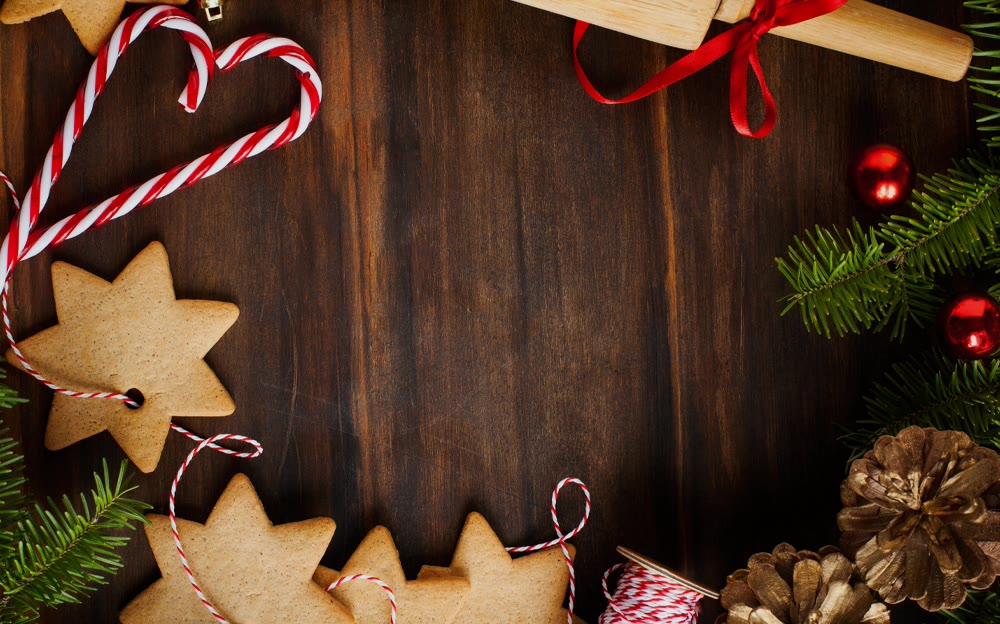
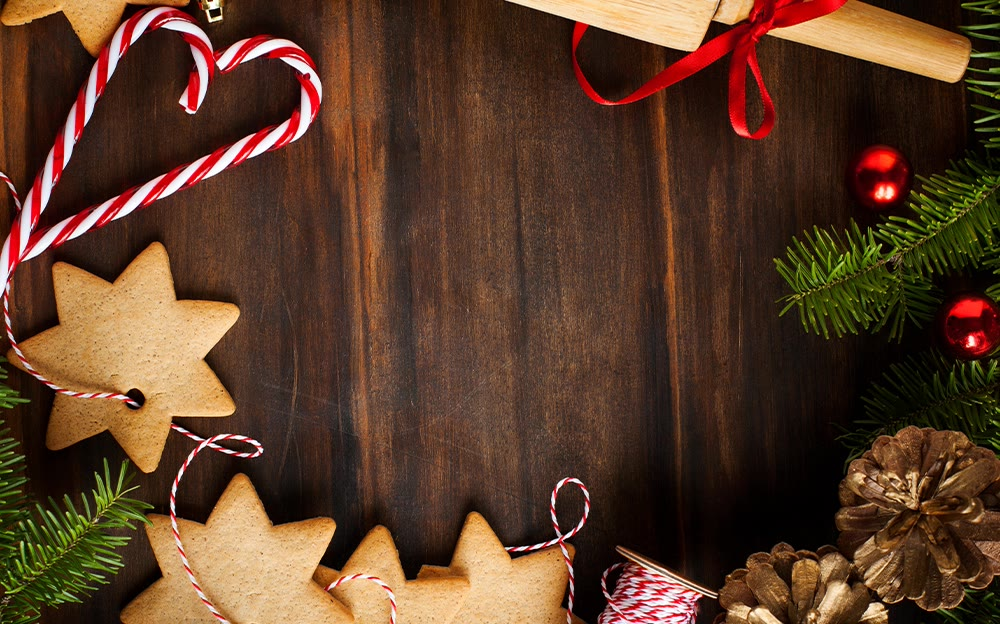
New covers, Menu Photoshoot gallery, SFT case study and images
- Covers: 3 Apps (IHOP AR, Ben & Jerry's AR, Facebook Canvas) and Work
  (AHA, Bausch + Lomb, IHOP Contest, Ecommerce, Menu Photoshoot); replaced
  Double Dipped and Holiday. PNG -> JPEG.
- Menu Photoshoot: 21 dishes in menu order with labels (WebP, EXIF stripped)
- Cheesecake Stuffed French Toast: new copy from Pete's markdown; sweater,
  homepage, landing page, display ad and email images
- Tile logos: 8 trimmed logos with equal-visual-weight sizing, switched
  off for now (site.tileLogos = false)
- New per-image options: actualSize (email at 600px)
- Privacy check covers WebP metadata

diff --git a/src/styles/global.css b/src/styles/global.css
@@ -134,13 +134,46 @@ html:has(.has-sticky-header) { scroll-padding-top: calc(var(--header-height-comp
 .tile-grid { display: grid; grid-template-columns: repeat(3, 1fr); }
 .tile {
   position: relative; display: grid; place-items: center; aspect-ratio: 16 / 10; overflow: hidden;
+  container-type: inline-size; /* lets logos size relative to the tile (cqw units) */
   background: #555; color: var(--color-on-image); text-decoration: none; text-align: center;
 }
 .tile__bg { position: absolute; inset: 0; width: 100%; height: 100%; object-fit: cover; }
 .tile::before { content: ''; position: absolute; inset: 0; z-index: 1; background: var(--color-overlay); transition: background 0.3s; }
 .tile__face, .tile__hover { position: relative; z-index: 2; display: grid; gap: var(--space-1); padding: var(--space-2); transition: opacity 0.3s; }
 .tile__hover { position: absolute; inset: 0; place-content: center; opacity: 0; }
-.tile__logo { width: auto; max-width: 60%; max-height: 5rem; margin: 0 auto; object-fit: contain; }
+/* Client logos: width set per logo for equal visual weight (see Tile.astro), in % of tile width (cqw) */
+.tile__logo { height: auto; max-height: var(--tile-logo-max-h); margin: 0 auto; object-fit: contain; }
+.tile__logo[data-size="10"] { width: 10cqw; }
+.tile__logo[data-size="12"] { width: 12cqw; }
+.tile__logo[data-size="14"] { width: 14cqw; }
+.tile__logo[data-size="16"] { width: 16cqw; }
+.tile__logo[data-size="18"] { width: 18cqw; }
+.tile__logo[data-size="20"] { width: 20cqw; }
+.tile__logo[data-size="22"] { width: 22cqw; }
+.tile__logo[data-size="24"] { width: 24cqw; }
+.tile__logo[data-size="26"] { width: 26cqw; }
+.tile__logo[data-size="28"] { width: 28cqw; }
+.tile__logo[data-size="30"] { width: 30cqw; }
+.tile__logo[data-size="32"] { width: 32cqw; }
+.tile__logo[data-size="34"] { width: 34cqw; }
+.tile__logo[data-size="36"] { width: 36cqw; }
+.tile__logo[data-size="38"] { width: 38cqw; }
+.tile__logo[data-size="40"] { width: 40cqw; }
+.tile__logo[data-size="42"] { width: 42cqw; }
+.tile__logo[data-size="44"] { width: 44cqw; }
+.tile__logo[data-size="46"] { width: 46cqw; }
+.tile__logo[data-size="48"] { width: 48cqw; }
+.tile__logo[data-size="50"] { width: 50cqw; }
+.tile__logo[data-size="52"] { width: 52cqw; }
+.tile__logo[data-size="54"] { width: 54cqw; }
+.tile__logo[data-size="56"] { width: 56cqw; }
+.tile__logo[data-size="58"] { width: 58cqw; }
+.tile__logo[data-size="60"] { width: 60cqw; }
+.tile__logo[data-size="62"] { width: 62cqw; }
+.tile__logo[data-size="64"] { width: 64cqw; }
+.tile__logo[data-size="66"] { width: 66cqw; }
+.tile__logo[data-size="68"] { width: 68cqw; }
+.tile__logo[data-size="70"] { width: 70cqw; }
 .tile__label { font: 400 clamp(1.25rem, 2.2vw, 1.75rem)/1.1 var(--font-display); }
 .tile__subtitle { font: 0.7rem var(--font-display); text-transform: uppercase; letter-spacing: var(--tracking-xwide); }
 .tile__title { font: 400 1.25rem/1.2 var(--font-ui); }
@@ -247,6 +280,9 @@ html:has(.has-sticky-header) { scroll-padding-top: calc(var(--header-height-comp
 .prose-page__portrait { float: right; width: 220px; height: auto; margin: 0 0 var(--space-3) var(--space-4); }
 
 .media-stack img { width: 100%; height: auto; }
+/* actualSize: the image keeps its real width (never wider than the column), left-aligned under its label */
+.media-item--actual img { width: auto; max-width: 100%; }
+.media-item--actual .zoomable { display: inline-block; width: auto; max-width: 100%; }
 
 /* Page-load reveal: the main text of each page fades up, one line after another.
    Only the animation hides the text, so with animations off everything is simply visible. */

diff --git a/src/styles/tokens.css b/src/styles/tokens.css
@@ -48,6 +48,7 @@
   --tile-rise: 0.75rem;      /* how far the client name/logo rises inside its tile */
   --tile-duration: 0.8s;     /* name/logo fade; the photo takes 1.4x this */
   --tile-zoom: 1.12;         /* tile photo starts slightly zoomed and settles to 100% */
+  --tile-logo-max-h: 26cqw;  /* tallest a tile logo can be (26% of the tile's width); sizes are set in Tile.astro */
   --tile-hover-zoom: 1.06;   /* tile photo grows slightly on hover; the tile frame stays the same */   /* equal gap between role, name and tagline on the home page */
 }
 /* Tablet and phone: slimmer header */

diff --git a/src/data/site.ts b/src/data/site.ts
@@ -24,6 +24,9 @@ export const site = {
   // false while previewing on github.io so search engines don't index a duplicate of petemag.com.
   // Flip to true at domain cutover (docs/seo.md).
   indexable: false,
+  // Client logos on tiles (logo.png in each project folder). Off = client names in text.
+  // The logo files and their balanced sizing (Tile.astro) are kept, ready to switch back on.
+  tileLogos: false,
   // Which home page design is live (src/components/home/). 'split' = the original Squarespace layout.
   home: 'split' as const,
   nav: [

diff --git a/src/content.config.ts b/src/content.config.ts
@@ -23,6 +23,7 @@ const media = z.object({
   alt: z.string().min(1),
   caption: z.string().optional(), // short label shown above the item; defaults to alt
   zoom: z.boolean().default(false), // true = click to open full size (good for long screenshots)
+  actualSize: z.boolean().default(false), // true = show at the image's real width instead of filling the column (e.g. emails)
   loop: z.boolean().default(false), // videos: play silently on repeat, like a GIF (not for reduced-motion visitors)
 });
 

diff --git a/src/content/work/ihop-sft-campaign.md b/src/content/work/ihop-sft-campaign.md
@@ -13,22 +13,72 @@ media:
     vimeo: "246280134"
     alt: "Holiday gift-wrap unwrapping animation for Cheesecake Stuffed French Toast"
     caption: "Holiday unwrap animation"
-  - src: images/work/ihop-sft-campaign/02.jpg
-    alt: "Branded ugly sweater, front and back"
-  - src: images/work/ihop-sft-campaign/03.jpg
-    alt: "IHOP homepage with SFT modules"
-  - src: images/work/ihop-sft-campaign/04.jpg
-    alt: "Landing page with the three flavors"
-  - src: images/work/ihop-sft-campaign/05.jpg
-    alt: "Six slides from a Cheesecake Stuffed French Toast display ad"
+  - src: images/work/ihop-sft-campaign/02.png
+    alt: "IHOP holiday ugly sweater, front and back: a snow globe with an IHOP restaurant, falling pancakes and a pancake stack"
+    caption: "Holiday ugly sweater giveaway"
+  - src: images/work/ihop-sft-campaign/03.webp
+    alt: "Full IHOP homepage takeover featuring Cheesecake Stuffed French Toast, IHOP 'N Go and holiday menu modules"
+    caption: "Homepage takeover"
+    zoom: true
+  - src: images/work/ihop-sft-campaign/04.webp
+    alt: "Full Cheesecake Stuffed French Toast landing page with the three flavors and holiday offers"
+    caption: "Landing page"
+    zoom: true
+  - src: images/work/ihop-sft-campaign/05.webp
+    alt: "Six slides from a Cheesecake Stuffed French Toast display ad: \"Come in today and unwrap the unexpected\", then each flavor"
     caption: "Display ad slides"
-  - src: images/work/ihop-sft-campaign/06.jpg
-    alt: "Email design"
+  - src: images/work/ihop-sft-campaign/06.webp
+    alt: "Promotional email: \"Ask for Cheesecake Stuffed French Toast\", with the three flavors and order buttons"
+    caption: "Email"
+    actualSize: true
+seoDescription: "Multi-channel campaign for IHOP's Stuffed French Toast LTO: web redesign, in-restaurant Snapchat geofilters, Waze ads and social giveaways to drive foot traffic."
+keywords: ["Campaign Strategy", "Digital Marketing", "Social Media Activation", "Geofenced Engagement", "Rich Media Advertising"]
 slugVerified: false
 ---
 
-<!-- TODO: paraphrase from the site audit. Replace with the original copy (or rewrite) before launch. -->
+## IHOP Stuffed French Toast Campaign
 
-**Role:** Creative Lead
+**Role:** Creative Lead<br>
+**Initiative:** Stuffed French Toast (SFT) Limited-Time Offer (LTO) Campaign<br>
+**Core Objective:** Drive Restaurant Foot Traffic, Boost Appetite Appeal, & Execute Multi-Channel Digital Strategy
 
-A holiday limited-time campaign for Cheesecake Stuffed French Toast, supported across digital and social with a homepage takeover, landing pages, social, email and branded holiday items.
+## Executive Summary
+
+For the holiday season, IHOP launched a new limited-time offer (LTO) product line: **Stuffed French Toast (SFT)**. The strategic objective was to drive foot traffic into IHOP restaurants by pairing an accessible price point with intense appetite appeal centered on the uniqueness of the product and its premium ingredients.
+
+Through an integrated digital campaign built around the concept of *"Unwrapping the Unexpected,"* IHOP combined high-impact rich media, location-gated social engagement, targeted email marketing, and holiday novelty to capture consumer interest and drive physical store visits.
+
+## Technical & Professional Scope
+
+| Categorization | Details & Competencies |
+| --- | --- |
+| **Role & Expertise** | Campaign Creative Direction, Digital Strategy, Experience Design, Social Engagement |
+| **Channels & Touchpoints** | Web (Homepage/Landing Page), Social Media, Email, Rich Media, Location-Based Mobile Ads |
+| **Core Delivery Lifecycle** | Creative Strategy → Web Experience Redesign → Asset Production → Multi-Channel Rollout |
+| **Specialized Tactics** | In-Restaurant Geofencing (Snapchat), Navigation Ads (Waze), Viral Social Merchandising |
+
+## Strategic Responsibilities & Execution
+
+### 1. Web Ecosystem & Digital Storytelling ("Unwrapping the Unexpected")
+
+- **Homepage & Landing Page Redesign:** Overhauled IHOP's primary digital touchpoints under the holiday theme *"Unwrapping the Unexpected."* Focused layout architecture on high-res product visual hierarchy and ingredient highlights.
+- **Email Marketing Campaigns:** Designed targeted promotional email campaigns highlighting the LTO price point and appetizing imagery directly to IHOP's subscriber database.
+
+### 2. Location-Gated & Social Engagement Tactics
+
+- **In-Restaurant Snapchat Geofilters:** Designed custom Snapchat filters promoting both the Stuffed French Toast LTO and IHOP's core equity offerings. The filters were geofenced so they could **only be unlocked inside an IHOP restaurant**, creating a direct digital incentive for store visits.
+- **Holiday Ugly Sweater Giveaway:** Executed the second annual custom IHOP holiday ugly sweater social giveaway to drive organic buzz, brand affinity, and social engagement.
+- **Social Ad Formats:** Produced high-performing Instagram Snap Ads and lightweight Twitter GIFs tailored for fast-scrolling appetite appeal.
+
+### 3. Rich Media & Drive-to-Store Partnerships
+
+- **High-Impact Publisher Ads:** Deployed interactive rich media banner placements across high-traffic platforms, including **CBS Sports**.
+- **Navigation-Based Targeting:** Partnered with **Waze** to display contextual, location-aware ads targeting drivers near IHOP locations during prime meal times.
+
+## Campaign Architecture
+
+The holiday campaign, *"Unwrapping the Unexpected,"* ran across three pillars:
+
+- **Digital Touchpoints:** Homepage Redesign · Dedicated Landing Page · Promotional Email Series
+- **Social Engagement:** Holiday Ugly Sweater Social Giveaway · Twitter GIFs · Instagram Snap Ads
+- **High-Impact Media & Location:** In-Restaurant Snapchat Location Filters · Waze Location Ads · CBS Sports Rich Media

diff --git a/src/content/work/ihop-menu-photoshoot.md b/src/content/work/ihop-menu-photoshoot.md
@@ -9,34 +9,69 @@ tile:
 role: "Creative Lead"
 order: 6
 media:
-  - src: images/work/ihop-menu-photoshoot/01.jpg
-    alt: "Menu photo: pancakes"
-  - src: images/work/ihop-menu-photoshoot/02.jpg
-    alt: "Menu photo: burger"
-  - src: images/work/ihop-menu-photoshoot/03.jpg
-    alt: "Menu photo: stuffed French toast"
-  - src: images/work/ihop-menu-photoshoot/04.jpg
-    alt: "Menu photo: club sandwich"
-  - src: images/work/ihop-menu-photoshoot/05.jpg
-    alt: "Menu photo: omelette"
-  - src: images/work/ihop-menu-photoshoot/06.jpg
-    alt: "Menu photo: crepes"
-  - src: images/work/ihop-menu-photoshoot/07.jpg
-    alt: "Menu photo: waffles"
-  - src: images/work/ihop-menu-photoshoot/08.jpg
-    alt: "Menu photo: skillet breakfast"
-  - src: images/work/ihop-menu-photoshoot/09.jpg
-    alt: "Menu photo: soup"
-  - src: images/work/ihop-menu-photoshoot/10.jpg
-    alt: "Menu photo: appetizers"
-  - src: images/work/ihop-menu-photoshoot/11.jpg
-    alt: "Menu photo: wrap"
-  - src: images/work/ihop-menu-photoshoot/12.jpg
-    alt: "Menu photo: salad"
-  - src: images/work/ihop-menu-photoshoot/13.jpg
-    alt: "Menu photo: turkey dinner"
-  - src: images/work/ihop-menu-photoshoot/14.jpg
-    alt: "Menu photo: sundae"
+  - src: images/work/ihop-menu-photoshoot/01.webp
+    alt: "Stack of IHOP original buttermilk pancakes with whipped butter and syrup"
+    caption: "Original Buttermilk Pancakes"
+  - src: images/work/ihop-menu-photoshoot/02.webp
+    alt: "Blueberry pancakes topped with blueberry compote and whipped cream"
+    caption: "Blueberry Pancakes"
+  - src: images/work/ihop-menu-photoshoot/03.webp
+    alt: "Rainbow-sprinkle cupcake pancakes with icing and whipped cream"
+    caption: "Cupcake Pancakes"
+  - src: images/work/ihop-menu-photoshoot/04.webp
+    alt: "Strawberry stuffed French toast with whipped cream"
+    caption: "Stuffed French Toast"
+  - src: images/work/ihop-menu-photoshoot/05.webp
+    alt: "French toast topped with sliced bananas and whipped cream"
+    caption: "Banana French Toast"
+  - src: images/work/ihop-menu-photoshoot/06.webp
+    alt: "Golden Belgian waffle with whipped butter"
+    caption: "Belgian Waffle"
+  - src: images/work/ihop-menu-photoshoot/07.webp
+    alt: "Chocolate-hazelnut crepes topped with sliced bananas and whipped cream"
+    caption: "Nutella Crepes"
+  - src: images/work/ihop-menu-photoshoot/08.webp
+    alt: "Crepes filled with cream and topped with peaches and whipped cream"
+    caption: "Peach Crepes"
+  - src: images/work/ihop-menu-photoshoot/09.webp
+    alt: "Vegetable omelette with broccoli, mushrooms, tomatoes and cheese, with fresh fruit"
+    caption: "Veggie Omelette"
+  - src: images/work/ihop-menu-photoshoot/10.webp
+    alt: "Steak omelette with mushrooms, peppers and cheese, with pancakes"
+    caption: "Steak Omelette"
+  - src: images/work/ihop-menu-photoshoot/11.webp
+    alt: "Steak tips with mushrooms, hash browns, eggs and a side of pancakes"
+    caption: "Steak Tips Combo"
+  - src: images/work/ihop-menu-photoshoot/12.webp
+    alt: "Bacon cheeseburger with lettuce, tomato and onion, served with fries"
+    caption: "Bacon Cheeseburger"
+  - src: images/work/ihop-menu-photoshoot/13.webp
+    alt: "Triple-decker BLT sandwich with a side of fresh fruit"
+    caption: "BLT"
+  - src: images/work/ihop-menu-photoshoot/14.webp
+    alt: "Turkey and vegetable wrap with fries"
+    caption: "Turkey Wrap"
+  - src: images/work/ihop-menu-photoshoot/15.webp
+    alt: "Grilled chicken salad with avocado, tomatoes, red onion and citrus"
+    caption: "Chicken Salad"
+  - src: images/work/ihop-menu-photoshoot/16.webp
+    alt: "Bowl of chicken noodle soup with carrots and herbs"
+    caption: "Chicken Noodle Soup"
+  - src: images/work/ihop-menu-photoshoot/17.webp
+    alt: "Appetizer sampler: onion rings and chicken strips with dipping sauces"
+    caption: "Appetizer Sampler"
+  - src: images/work/ihop-menu-photoshoot/18.webp
+    alt: "Roast turkey with gravy, mashed potatoes, stuffing, broccoli and cranberry sauce"
+    caption: "Turkey Dinner"
+  - src: images/work/ihop-menu-photoshoot/19.webp
+    alt: "Kids’ chocolate chip Funny Face pancake with a whipped-cream smile"
+    caption: "Kids Funny Face Pancake"
+  - src: images/work/ihop-menu-photoshoot/20.webp
+    alt: "Kids’ strawberry pancake with scrambled eggs and bacon"
+    caption: "Kids Jr. Rooty"
+  - src: images/work/ihop-menu-photoshoot/21.webp
+    alt: "Ice cream sundae with chocolate sauce, whipped cream and a cherry"
+    caption: "Ice Cream Sundae"
 slugVerified: true
 ---
 

diff --git a/CHANGELOG.md b/CHANGELOG.md
@@ -2,7 +2,14 @@
 
 Plain-language log of meaningful changes. Newest first. Git has the details; this says *what* and *why*.
 
+## 2026-09-28
+- New per-image `actualSize: true`: shows an image at its real width instead of filling the column. Used for the SFT email (600px).
+- Cheesecake Stuffed French Toast: new case-study copy from Pete's markdown ("Unwrapping the Unexpected"), search description and skills; 5 images added (ugly sweater, homepage and landing page as zoomable full pages, display ad, email). WebP metadata stripped; unused dark AHA logo moved to originals.
+
 ## 2026-09-27
+- Tile logos switched off for now (`tileLogos: false` in site.ts): tiles show client names in text. The 8 trimmed logos and the equal-weight sizing are kept for later.
+- Tile logos sized for equal visual weight: each gets roughly the same area (width = 21% of tile × √aspect), relative to the tile, so wide wordmarks and compact badges look balanced at every screen size.
+- Images: 11 covers (3 Apps: Ben & Jerry's AR, Facebook Canvas, IHOP AR; new for AHA, Bausch + Lomb, IHOP Contest, Ecommerce, Menu Photoshoot; replaced gen.video, Double Dipped, Holiday), 8 client logos on tiles (trimmed; AHA pending a light version), and 21 Menu Photoshoot dishes (WebP, EXIF stripped) with labels. Privacy check now also covers WebP metadata.
 - SFT Campaign: the "social posts" image is display-ad slides; label and description updated.
 - Case studies: a small eyebrow-style label above each image and video (from its description, or an optional shorter `caption`), marked up as a figure caption.
 - All Vimeo embeds: title, byline and avatar overlays hidden. New per-video `loop: true` option (silent autoplay loop, motion-safe); tried on the SFT unwrap animation and rolled back to click-to-play at Pete's request.

diff --git a/src/content/README.md b/src/content/README.md
@@ -52,6 +52,7 @@ Markdown tables work in case-study text. Write the divider row as `| --- | --- |
 - **Hide a project:** `draft: true`.
 - **Image labels:** every image and video shows a small label above it, taken from its `alt` description. To show something shorter, add `caption: "…"` under that media item. The `alt` stays the full description for screen readers and search engines.
 - **Make an image zoomable:** add `zoom: true` under that media item.
+- **Show an image at its real size** (e.g. an email, instead of stretching it to the column): add `actualSize: true`.
 - **Make a short Vimeo video loop like a GIF:** add `loop: true` under it (silent and on repeat, with Vimeo's pause control still available; not for reduced-motion visitors).
 - **Add a project:** copy an existing file, rename it (this sets the URL), and update the fields.
 - **Find what's unfinished:** `grep -rn TODO src/content`.
